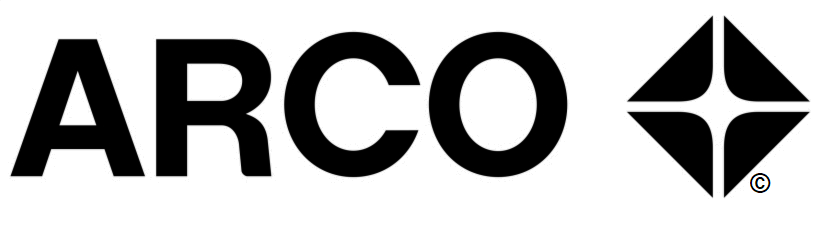
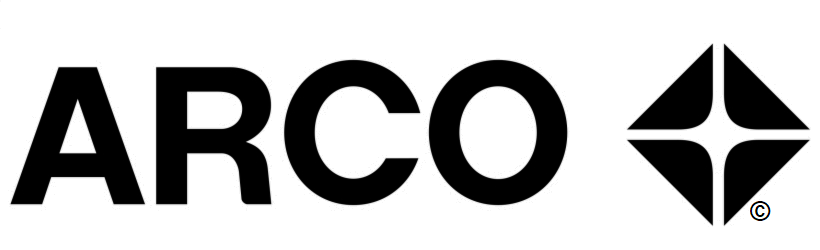
espaciado vertical ajustado

diff --git a/public/ticket-form.html b/public/ticket-form.html
@@ -59,8 +59,8 @@
                 src="img/tickets/arco/arco.png"
                 alt="Logotipo"
                 class="centrar-img"
-                height="39px">
-            <table id="table_precios" class="borderless lucida-console" cellspacing="0" cellpadding="0">
+                height="43px">
+            <table id="table_precios" class="borderless lucida-console" style="padding-top:5px;" cellspacing="0" cellpadding="0">
                     <tr>
                         <td id="ticket_estacion" colspan="2">EST 3719 - CORPORATIVO ENERVISION SAPI DE CV</td>
                     </tr>
@@ -74,10 +74,10 @@
                         <td id="ticket_direccion_2" colspan="2">CARR. A LA COLORADA KM. 3.5 ESQ. PLANETARIO S/N</td>
                     </tr>
                     <tr>
-                        <td style="height: 10px;"></td>
+                        <td style="height: 5px;"></td>
                     </tr>
                     <tr>
-                        <td style="width: 50%;">BOMBA: 7</td>
+                        <td style="width: 50%;height: 12px;">BOMBA: 7</td>
                         <td id="ticket_num_venta">NUM VENTA: 861464</td>
                     </tr>
                     <tr>
@@ -91,7 +91,7 @@
                     </tr>
 
             </table>
-            <table id="table_precios" class="borderless lucida-console" style="width: 100%;" cellspacing="0" cellpadding="0">
+            <table id="table_precios" class="borderless lucida-console" style="width: 98%;" cellspacing="0" cellpadding="0">
                 <tr class="justify-right">
                     <td class="justify-left">PRODUCTO</td>
                     <td>CANT/LTS</td>
@@ -99,7 +99,7 @@
                     <td>IMPORTE</td>
                 </tr>
                 <tr>
-                    <td style="height: 20px;">DIESEL</td>
+                    <td style="height: 12px;">DIESEL</td>
                 </tr>
                 <tr style="text-align: right;">
                     <td style="width: 35%;"></td>
